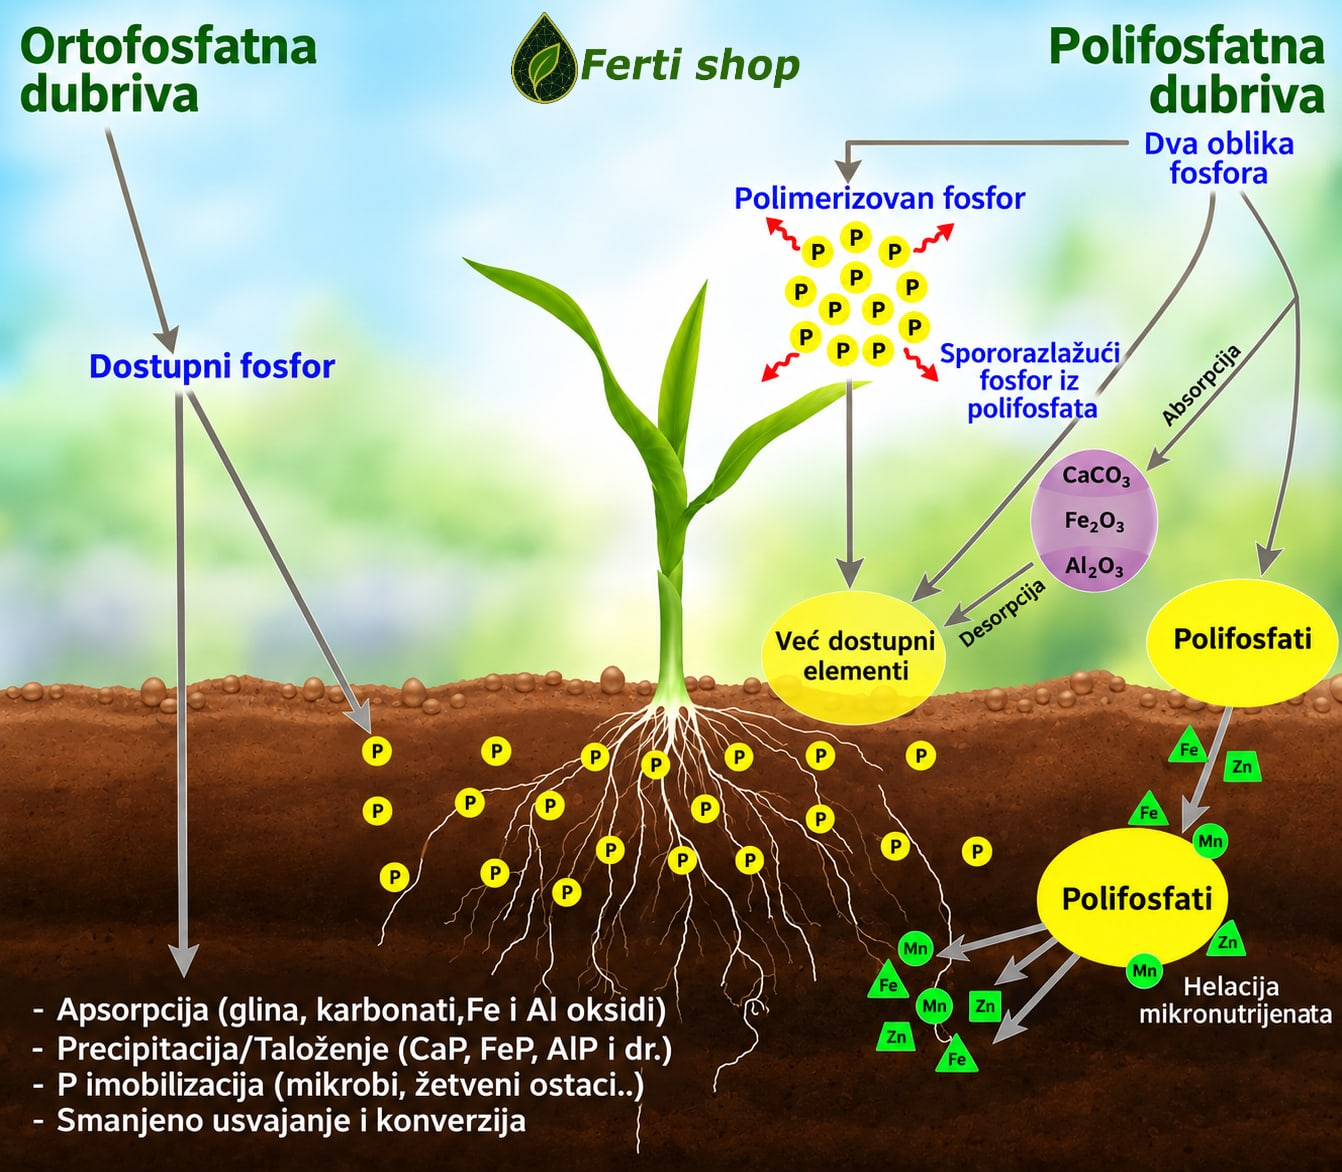
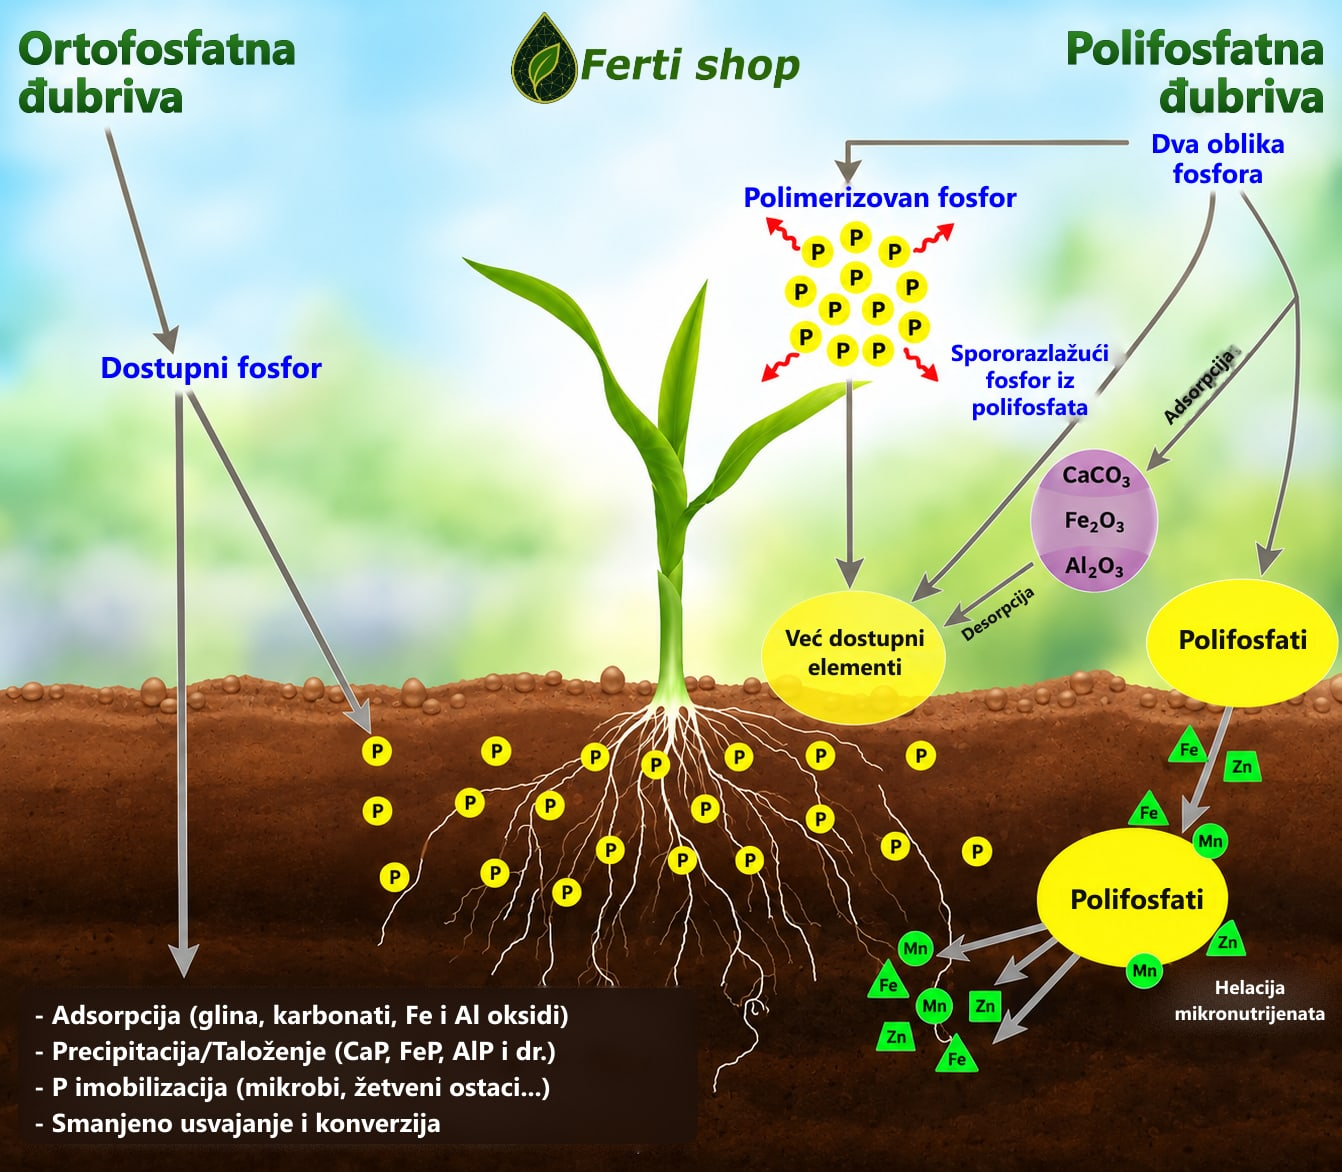
Proizvodi: infografika orto/polifosfat na tri jezika (HU, RO prevod; SR ispravljeno đubriva, adsorpcija)

diff --git a/strane/hu/proizvodi.html b/strane/hu/proizvodi.html
@@ -78,7 +78,7 @@
               <line x1="109" y1="84" x2="150" y2="84" class="mera"/><text x="129" y="77" class="mera-t" text-anchor="middle">5 cm</text>
               <line x1="150" y1="84" x2="150" y2="122" class="mera"/><text x="157" y="108" class="mera-t">5 cm</text>
             </svg>
-              <a href="{{KOREN}}img/ferti-start.jpg" target="_blank" rel="noopener"><img src="{{KOREN}}img/ferti-start.jpg" alt="Infografika: ortofoszfát és polifoszfát műtrágyák a talajban" width="1342" height="1172" loading="lazy"></a>
+              <a href="{{KOREN}}img/ferti-start-hu.jpg" target="_blank" rel="noopener"><img src="{{KOREN}}img/ferti-start-hu.jpg" alt="Infografika: ortofoszfát és polifoszfát műtrágyák a talajban" width="1342" height="1172" loading="lazy"></a>
               <figcaption>Orto- és polifoszfát a talajban – kattintson a nagyításhoz</figcaption>
             </figure>
           </div>

diff --git a/strane/ro/proizvodi.html b/strane/ro/proizvodi.html
@@ -78,7 +78,7 @@
               <line x1="109" y1="84" x2="150" y2="84" class="mera"/><text x="129" y="77" class="mera-t" text-anchor="middle">5 cm</text>
               <line x1="150" y1="84" x2="150" y2="122" class="mera"/><text x="157" y="108" class="mera-t">5 cm</text>
             </svg>
-              <a href="{{KOREN}}img/ferti-start.jpg" target="_blank" rel="noopener"><img src="{{KOREN}}img/ferti-start.jpg" alt="Infografic: îngrășăminte ortofosfatice și polifosfatice în sol" width="1342" height="1172" loading="lazy"></a>
+              <a href="{{KOREN}}img/ferti-start-ro.jpg" target="_blank" rel="noopener"><img src="{{KOREN}}img/ferti-start-ro.jpg" alt="Infografic: îngrășăminte ortofosfatice și polifosfatice în sol" width="1342" height="1172" loading="lazy"></a>
               <figcaption>Orto- și polifosfat în sol — clic pentru mărire</figcaption>
             </figure>
           </div>

diff --git a/docs/hu/proizvodi.html b/docs/hu/proizvodi.html
@@ -152,7 +152,7 @@
               <line x1="109" y1="84" x2="150" y2="84" class="mera"/><text x="129" y="77" class="mera-t" text-anchor="middle">5 cm</text>
               <line x1="150" y1="84" x2="150" y2="122" class="mera"/><text x="157" y="108" class="mera-t">5 cm</text>
             </svg>
-              <a href="../img/ferti-start.jpg" target="_blank" rel="noopener"><img src="../img/ferti-start.jpg" alt="Infografika: ortofoszfát és polifoszfát műtrágyák a talajban" width="1342" height="1172" loading="lazy"></a>
+              <a href="../img/ferti-start-hu.jpg" target="_blank" rel="noopener"><img src="../img/ferti-start-hu.jpg" alt="Infografika: ortofoszfát és polifoszfát műtrágyák a talajban" width="1342" height="1172" loading="lazy"></a>
               <figcaption>Orto- és polifoszfát a talajban – kattintson a nagyításhoz</figcaption>
             </figure>
           </div>

diff --git a/docs/ro/proizvodi.html b/docs/ro/proizvodi.html
@@ -152,7 +152,7 @@
               <line x1="109" y1="84" x2="150" y2="84" class="mera"/><text x="129" y="77" class="mera-t" text-anchor="middle">5 cm</text>
               <line x1="150" y1="84" x2="150" y2="122" class="mera"/><text x="157" y="108" class="mera-t">5 cm</text>
             </svg>
-              <a href="../img/ferti-start.jpg" target="_blank" rel="noopener"><img src="../img/ferti-start.jpg" alt="Infografic: îngrășăminte ortofosfatice și polifosfatice în sol" width="1342" height="1172" loading="lazy"></a>
+              <a href="../img/ferti-start-ro.jpg" target="_blank" rel="noopener"><img src="../img/ferti-start-ro.jpg" alt="Infografic: îngrășăminte ortofosfatice și polifosfatice în sol" width="1342" height="1172" loading="lazy"></a>
               <figcaption>Orto- și polifosfat în sol — clic pentru mărire</figcaption>
             </figure>
           </div>
